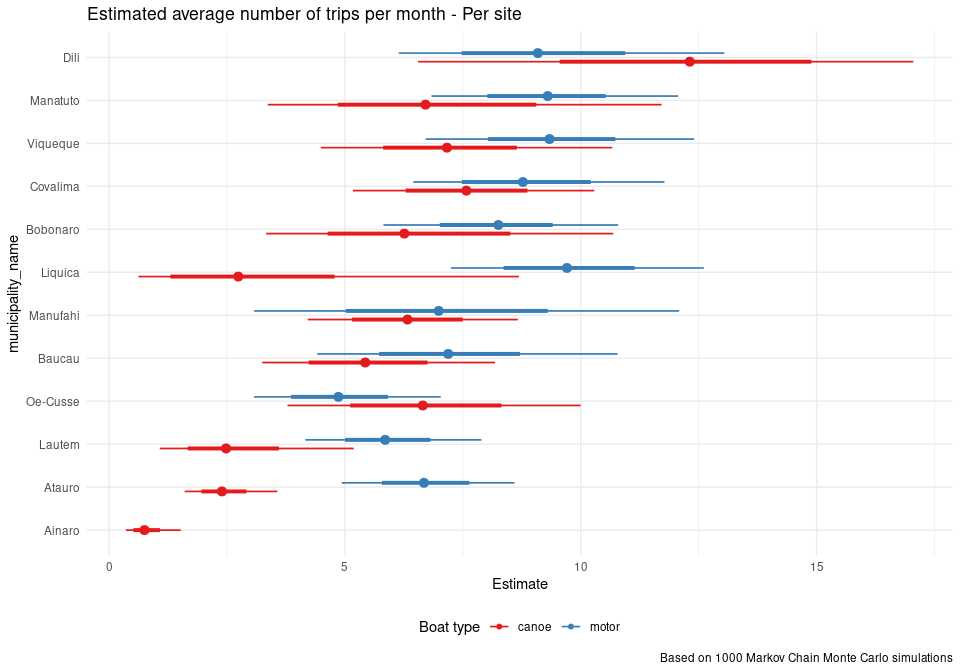
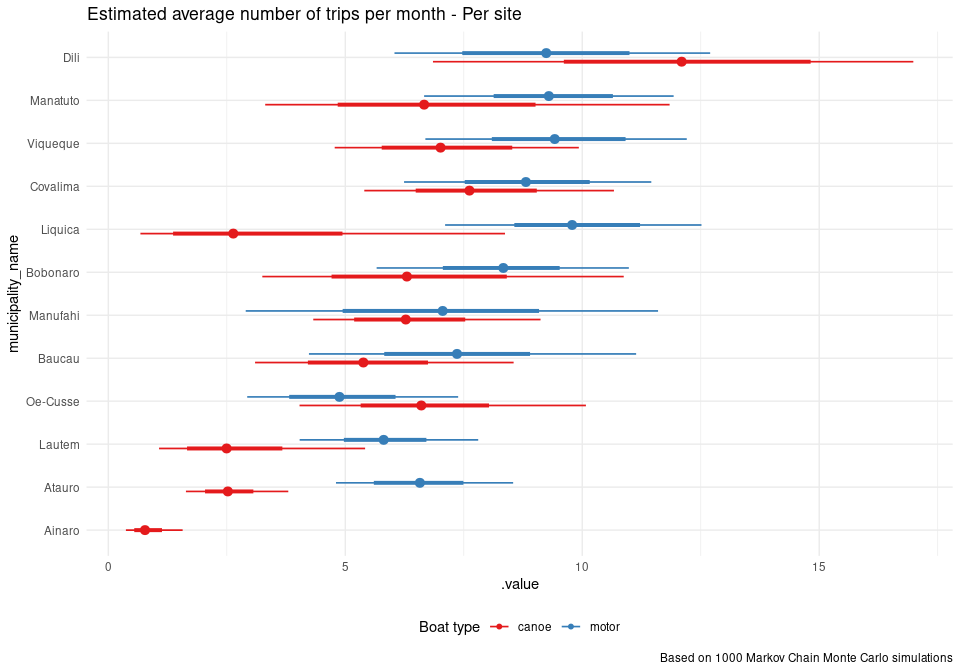
Use tidybayes for predictions of activity models

diff --git a/notebooks/vessel-activity.md b/notebooks/vessel-activity.md
@@ -23,20 +23,20 @@ coefficient modelling.
     generate activity estimates at the national level might be severely
     compromised in 1 to 3 years time.
   - There are large gaps in data availability in tracking data. The
-    origin of these gaps is unknown and until we know more about it, it
+    origin of this gaps is unknown and until we know more about it, it
     may call to question the reliability of the service.
-  - A significant number of boat trackers stopped being operational (last
-    heard of) simultaneously. These events are prominent at the
+  - Significant number of boat trackers stopped being operational (last
+    heard off) simultaneously. These events are prominent at the
     beginning of the first quarter 2019 and the beginning of the second
     quarter 2020. The reason for this decline is currently unknown and
     warrants further investigation of the failure rate of tracking
     devices.
-  - New devices should be deployed aiming to improve coverage of
+  - New devices should be deployed aiming to improve covering of
     under-sampled municipalities and boat types.
   - The tracking data highlights some potential inaccuracies with the
     fisher/boat counts per municipality. In one of the locations the
     number of tracking devices installed is larger than the recorded
-    number of boats. 
+    number of boats.
   - Substantial improvements in the PDS detection algorithm or
     sufficient post-processing methods are needed before it can be used
     ready for fisher-level analytics.
@@ -128,35 +128,16 @@ cowplot::plot_grid(count_plot, proportion_plot, ncol = 2)
 ``` r
 drake::loadd(vessel_activity_model_brms)
 
-monthly_predictions_overall <- function(x, y){
-  nd <- x$data %>%
-    distinct(period_static) %>%
-    mutate(data_available = TRUE, 
-           period_static = lubridate::as_date(period_static)) %>%
-    complete(period_static = seq(min(period_static), 
-                                                    max(period_static), "month"), 
-             fill = list(data_available = FALSE)) %>%
-    mutate(period_seasonal = lubridate::month(period_static), 
-           n_days = lubridate::days_in_month(period_seasonal),
-           boat_code = y,
-           prediction_id = as.character(1:n())) 
-  
-  x %>%
-    posterior_epred(nd, 
-                    re_formula = ~ (1 | period_static) +
-                      (1 | period_seasonal), 
-                    allow_new_levels = TRUE) %>% 
-    set_colnames(as.character(nd$prediction_id)) %>%
-    as.data.frame.table() %>%
-    dplyr::mutate(prediction_id = Var2) %>%
-    dplyr::rename(Estimate = Freq, sample = Var1) %>%
-    dplyr::inner_join(nd, by = "prediction_id") %>%
-    tibble::as_tibble() %>%
-    dplyr::select(-Var2)
+pred_overall <- function(x){
+  nd <- tibble(period_static = unique(x$data$period_static), 
+             n_days = 1) %>%
+  mutate(period_seasonal = lubridate::month(lubridate::ymd(period_static)))
+  add_fitted_draws(nd, x, re_formula = ~ (1 | period_seasonal) + (1 | period_static))
 }
 
-imap_dfr(vessel_activity_model_brms, monthly_predictions_overall) %>%
-  ggplot(aes(x = period_static, y = Estimate, fill = boat_code, colour = boat_code)) + 
+map_df(vessel_activity_model_brms, pred_overall, .id = "boat_code") %>%
+  mutate(period_static = lubridate::ymd(period_static)) %>%
+  ggplot(aes(x = period_static, y = .value, fill = boat_code, colour = boat_code)) +
   stat_lineribbon(aes(alpha = forcats::fct_rev(ordered(stat(.width)))), 
                   .width = c(0.05, 0.66, 0.95), size = 0.5) +
   facet_grid(cols = vars(boat_code)) +
@@ -172,36 +153,20 @@ imap_dfr(vessel_activity_model_brms, monthly_predictions_overall) %>%
 ![](vessel-activity_files/figure-gfm/model-predictions-overall-1.png)<!-- -->
 
 ``` r
-monthly_predictions_site <- function(x, y){
-  nd <- x$data %>%
-    distinct(municipality_name, period_static) %>%
-    mutate(data_available = TRUE, 
-           period_static = lubridate::as_date(period_static)) %>%
-    complete(municipality_name, period_static = seq(min(period_static), 
-                                                    max(period_static), "month"), 
-             fill = list(data_available = FALSE)) %>%
-    mutate(period_seasonal = lubridate::month(period_static), 
-           n_days = lubridate::days_in_month(period_seasonal),
-           boat_code = y,
-           prediction_id = as.character(1:n())) 
-  
-  x %>%
-    posterior_epred(nd, 
-                    re_formula = ~ (1 | municipality_name) + (1 | period_static) +
-                      (1 | municipality_name : period_static) + 
-                      (1 | period_seasonal), 
-                    allow_new_levels = TRUE) %>% 
-    set_colnames(as.character(nd$prediction_id)) %>%
-    as.data.frame.table() %>%
-    dplyr::mutate(prediction_id = Var2) %>%
-    dplyr::rename(Estimate = Freq, sample = Var1) %>%
-    dplyr::inner_join(nd, by = "prediction_id") %>%
-    tibble::as_tibble() %>%
-    dplyr::select(-Var2)
+pred_mun <- function(x){
+  nd_mun <- expand_grid(
+    period_static = unique(x$data$period_static), 
+    municipality_name = unique(x$data$municipality_name),
+    n_days = 1) %>%
+    mutate(period_seasonal = lubridate::month(lubridate::ymd(period_static)))
+  add_fitted_draws(nd_mun, x, re_formula = ~ (1 | period_seasonal) + (1 | period_static) +
+                            (1 | municipality_name) + (1 | municipality_name : period_static), 
+                          allow_new_levels = TRUE)
 }
 
-imap_dfr(vessel_activity_model_brms, monthly_predictions_site) %>%
-  ggplot(aes(x = period_static, y = Estimate, fill = boat_code, colour = boat_code)) + 
+map_df(vessel_activity_model_brms, pred_mun, .id = "boat_code") %>%
+  mutate(period_static = lubridate::ymd(period_static)) %>%
+  ggplot(aes(x = period_static, y = .value, fill = boat_code, colour = boat_code)) + 
   stat_lineribbon(aes(alpha = forcats::fct_rev(ordered(stat(.width)))), 
                   .width = c(0.05, 0.66, 0.95), size = 0.5) +
   facet_wrap(vars(municipality_name), ncol = 3) +
@@ -217,31 +182,18 @@ imap_dfr(vessel_activity_model_brms, monthly_predictions_site) %>%
 ![](vessel-activity_files/figure-gfm/model-predictions-persite-1.png)<!-- -->
 
 ``` r
-predictions_site <- function(x, y){
-  nd <- x$data %>%
-    distinct(municipality_name) %>%
-    mutate(data_available = TRUE) %>%
-    complete(municipality_name) %>%
-    mutate(n_days = 30,
-           boat_code = y,
-           prediction_id = as.character(1:n())) 
-  
-  x %>%
-    posterior_epred(nd, 
-                    re_formula = ~ (1 | municipality_name), 
-                    allow_new_levels = TRUE) %>% 
-    set_colnames(as.character(nd$prediction_id)) %>%
-    as.data.frame.table() %>%
-    dplyr::mutate(prediction_id = Var2) %>%
-    dplyr::rename(Estimate = Freq, sample = Var1) %>%
-    dplyr::inner_join(nd, by = "prediction_id") %>%
-    tibble::as_tibble() %>%
-    dplyr::select(-Var2)
+pred_site <- function(x){
+  nd <- expand_grid(
+    municipality_name = unique(x$data$municipality_name),
+    n_days = 30) 
+  add_fitted_draws(nd, x, re_formula = ~ (1 | municipality_name), 
+                          allow_new_levels = TRUE)
 }
 
-imap_dfr(vessel_activity_model_brms, predictions_site) %>%
-  mutate(municipality_name = fct_reorder(municipality_name, Estimate)) %>%
-  ggplot(aes(y = municipality_name, x = Estimate, fill = boat_code, colour = boat_code)) + 
+map_df(vessel_activity_model_brms, pred_site, .id = "boat_code") %>% 
+  ungroup() %>%
+  mutate(municipality_name = fct_reorder(municipality_name, .value)) %>%
+  ggplot(aes(y = municipality_name, x = .value, fill = boat_code, colour = boat_code)) + 
   stat_pointinterval(.width = c(0.66, 0.95), position = position_dodge(0.4)) +
   scale_fill_brewer(palette = "Set1", aesthetics = c("colour", "fill"), 
                     name = "Boat type") +
